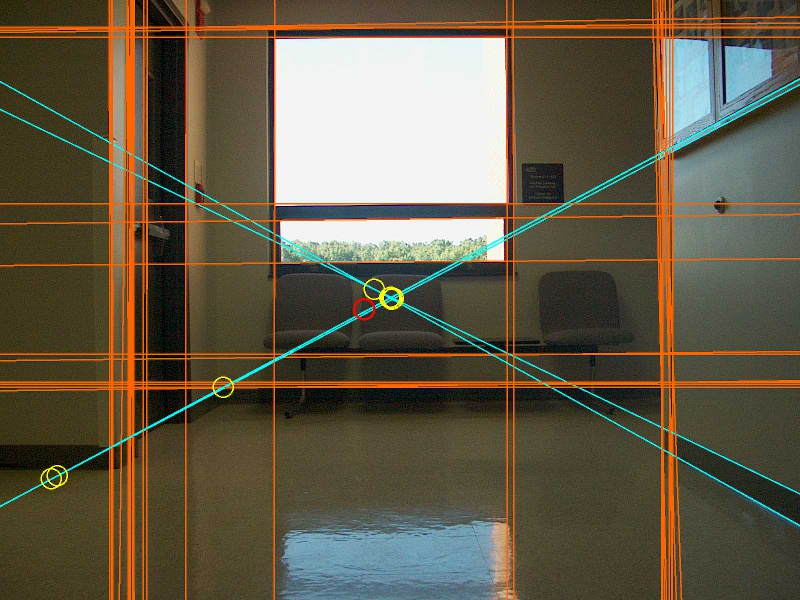
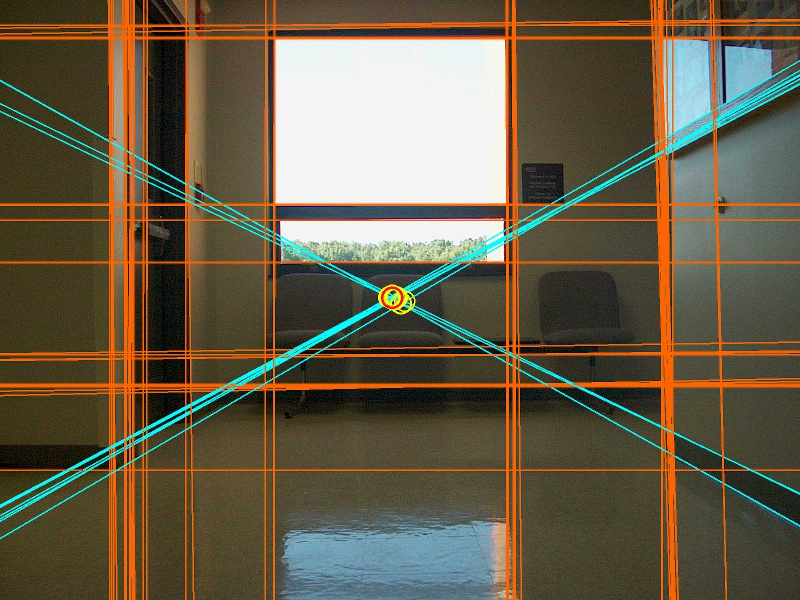
update

Changed region(s): [[0.0, 0.0, 1.0, 1.0], [0.9062, 0.93, 0.9375, 1.0]]

diff --git a/hw4/src/hw4.py b/hw4/src/hw4.py
@@ -17,7 +17,7 @@ CANNY_APERTURE_SIZE = 5
 
 HOUGH_RHO = 1
 HOUGH_THETA = 1             #degree
-HOUGH_TH = 180
+HOUGH_TH = 150
 
 HOUGHP_MIN_LEN = 30
 HOUGHP_MAX_GAP = 5
@@ -50,13 +50,12 @@ def HoughLinesP(img):
     return lines
 
 # estimate vanishing point by minimize the objective fucntion
-def EstimateVanisingPoint(pts):
+def EstimateVanisingPoint(pts, w, h):
     
     if len(pts) == 0:
         return -1,-1
     
-    cx = 0
-    cy = 0
+    cx = cy = 0
     
     for x,y in pts:
         cx += x
@@ -71,7 +70,10 @@ def EstimateVanisingPoint(pts):
     
     dists.sort()
     
-    min_dist = dists[len(dists)/2]
+    # keep the 75% elements
+    n = (int)(len(dists)*0.75)
+    
+    min_dist = dists[n]
     
     temp = []
     
@@ -82,7 +84,10 @@ def EstimateVanisingPoint(pts):
         if dist <= min_dist:
             temp.append(pts[i])
     
+    print "before = %d after = %d" % (len(pts), len(temp))
+    
     pts = temp
+
     
     if len(pts) == 0:
         return -1,-1
@@ -143,7 +148,15 @@ def line(p1, p2):
     return A, B, -C
 
 # find intersection of two lines
-def intersection(L1, L2, w, h):    
+def intersection(L1, L2, w, h):
+    
+    a1 = math.atan(float(L1[0])/L1[1])
+    a2 = math.atan(float(L2[0])/L2[1])
+    
+    # filter out parallel lines
+    if abs(a1-a2) < 10.0 / 180 * 3.14:
+        return False
+    
     D  = L1[0] * L2[1] - L1[1] * L2[0]
     Dx = L1[2] * L2[1] - L1[1] * L2[2]
     Dy = L1[0] * L2[2] - L1[2] * L2[0]
@@ -196,7 +209,7 @@ def drawHoughResult(img, lines, DRAW_LINES = True, DRAW_CIRCLES = True, DRAW_BES
                 pts.append(inter)
     
     if DRAW_BEST:
-        center = EstimateVanisingPoint(pts)
+        center = EstimateVanisingPoint(pts, w, h)
         cv2.circle(out, center, r, (0,0,255), thickness=4)
     
     return out
@@ -242,7 +255,7 @@ def drawHoughPResult(img, lines, EXTEND_LINES = False, DRAW_LINES = True, DRAW_C
                 pts.append(inter)
     
     if DRAW_BEST:
-        center = EstimateVanisingPoint(pts)
+        center = EstimateVanisingPoint(pts,w,h)
         cv2.circle(out, center, r, (0,0,255), thickness=4)
                 
     return out
